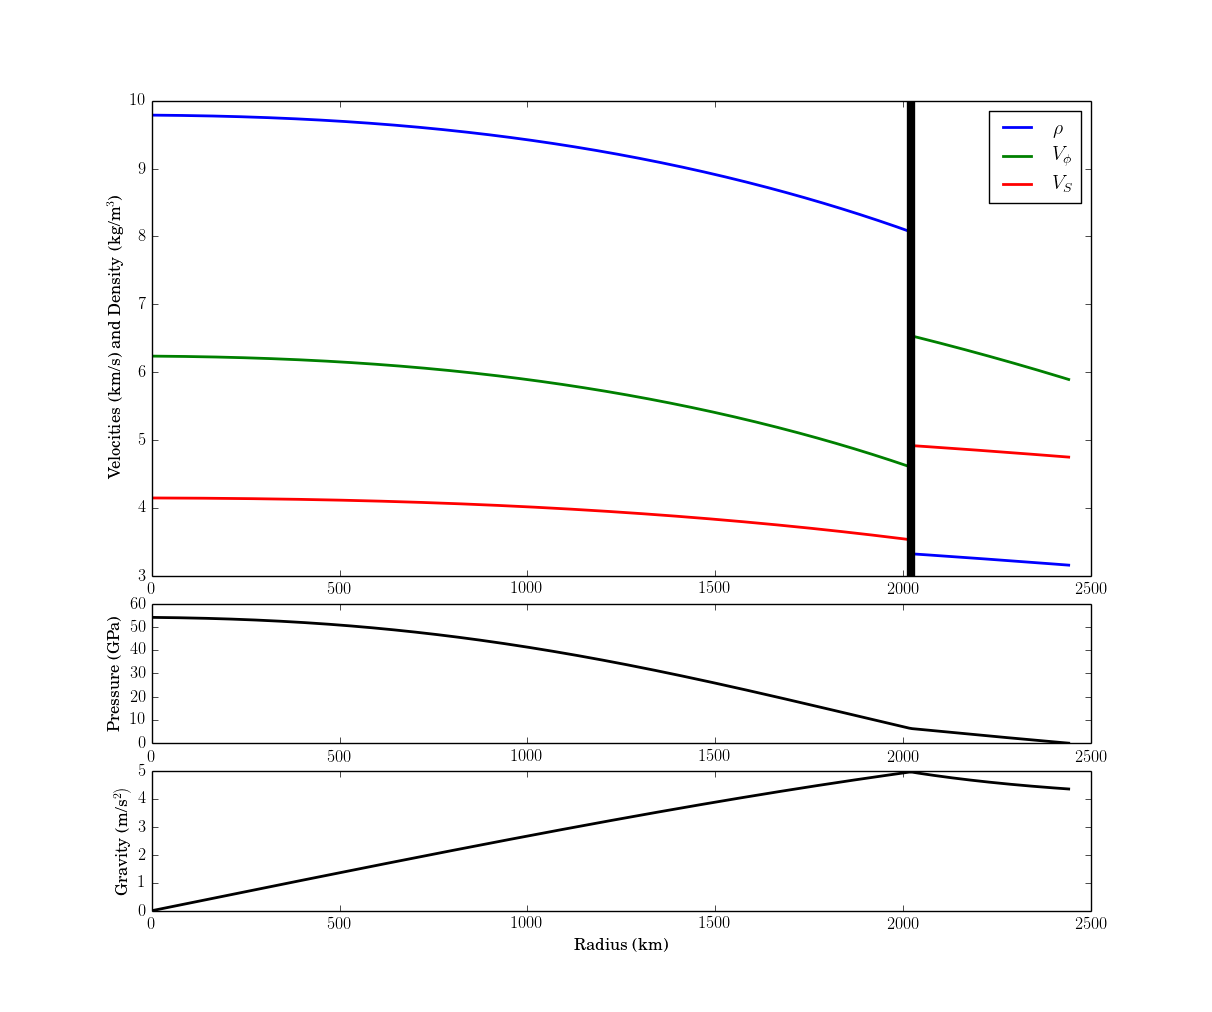
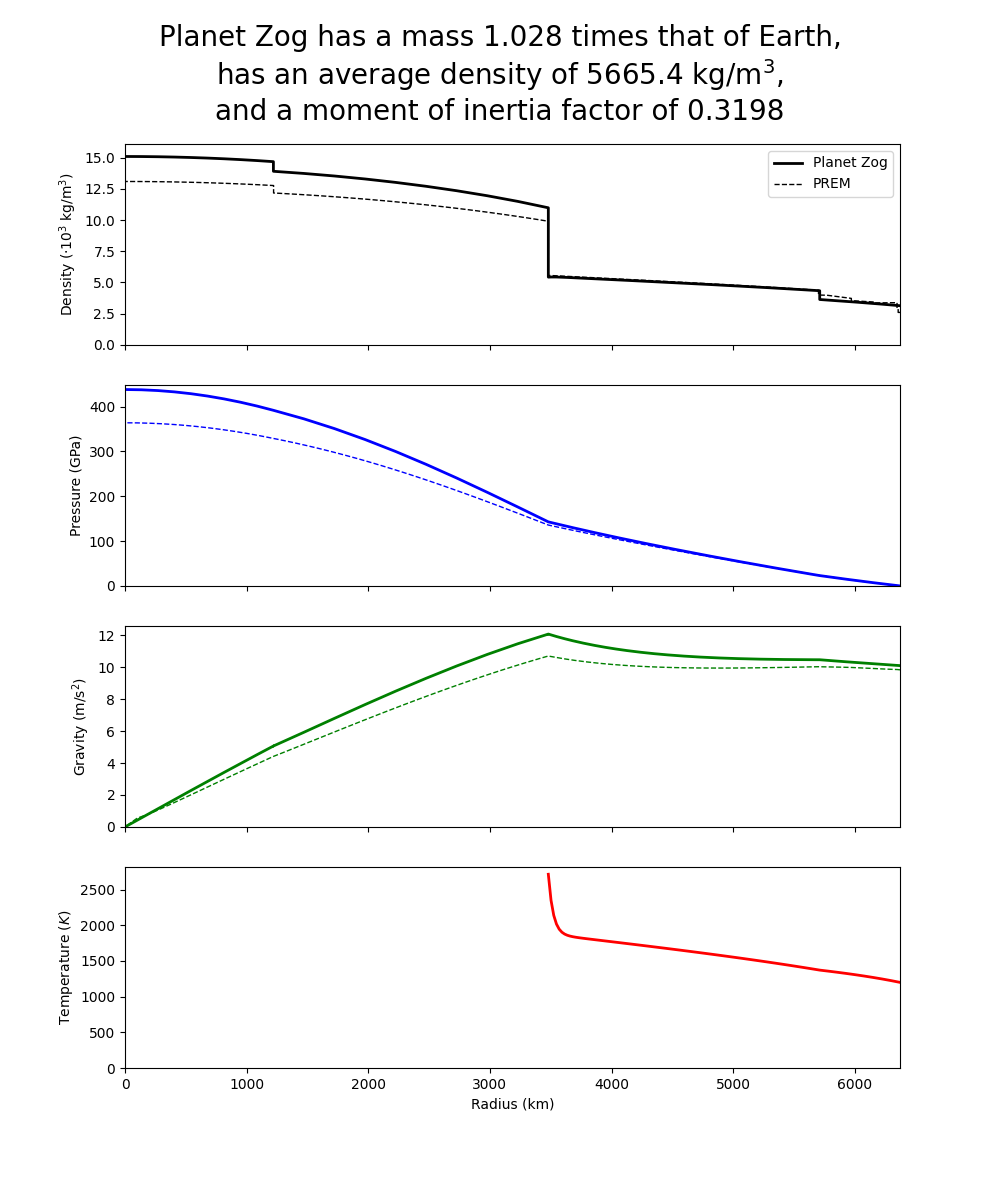
added boundary layer function

diff --git a/burnman/classes/layer.py b/burnman/classes/layer.py
@@ -8,6 +8,7 @@ import numpy as np
 from scipy.integrate import odeint
 from scipy.integrate import quad
 from scipy.interpolate import UnivariateSpline, interp1d
+from scipy.optimize import fsolve
 from burnman import constants
 from burnman.tools import geotherm
 import warnings
@@ -903,3 +904,109 @@ class Layer(object):
     def C_p(self):
         """Alias for :func:`~burnman.Material.molar_heat_capacity_p`"""
         return self.molar_heat_capacity_p
+
+
+class BoundaryLayerPerturbation(object):
+    """
+    A class that implements a temperature perturbation model corresponding to a
+    simple thermal boundary layer.
+    The model takes the following form:
+    T = a*exp((r - r1)/(r0 - r1)*c) + b*exp((r - r0)/(r1 - r0)*c)
+    The relationships between the input parameters and a, b and c are
+    given below.
+
+    This model is a simpler version of that proposed
+    by :cite:`Richter1981`.
+
+    Parameters
+    ----------
+    radius_bottom : float
+        The radius at the bottom of the layer (r0) [m].
+
+    radius_top : float
+        The radius at the top of the layer (r1) [m].
+
+    rayleigh_number : float
+        The Rayleigh number of convection within the layer. The
+        exponential scale factor is this number to the power of 1/4
+        (Ra = c^4).
+
+    Delta_T : float
+        The total difference in potential temperature across the layer [K].
+        Delta_T = (a + b)*exp(c)
+
+    boundary_layer_ratio : float
+        The ratio of the linear scale factors (a/b) corresponding to the
+        thermal boundary layers at the top and bottom of the layer. A number
+        greater than 1 implies a larger change in temperature across the
+        top boundary than the bottom boundary.
+    """
+    def __init__(self, radius_bottom, radius_top, rayleigh_number, Delta_T,
+                 boundary_layer_ratio):
+        self.r0 = radius_bottom
+        self.r1 = radius_top
+
+        self.Ra = rayleigh_number
+        self.c = np.power(self.Ra, 1./4.)
+
+        self.a = Delta_T / (np.exp(self.c) * (1. + boundary_layer_ratio))
+        self.b = - boundary_layer_ratio * self.a
+
+    def temperature(self, radii):
+        """
+        Returns the temperature at one or more radii [K].
+
+        Parameters
+        ----------
+        radii : float or array
+            The radii at which to evaluate the temperature.
+
+        Returns
+        -------
+        temperature : float or array
+            The temperatures at the requested radii.
+        """
+        return (self.a * np.exp((radii - self.r1)/(self.r0 - self.r1)*self.c)
+                + self.b * np.exp((radii - self.r0)/(self.r1 - self.r0)*self.c))
+
+    def dTdr(self, radii):
+        """
+        Returns the thermal gradient at one or more radii [K/m].
+
+        Parameters
+        ----------
+        radii : float or array
+            The radii at which to evaluate the thermal gradients.
+
+        Returns
+        -------
+        dTdr : float or array
+            The thermal gradient at the requested radii.
+        """
+        return (self.c/(self.r0 - self.r1) *
+                (self.a * np.exp((radii - self.r1)/(self.r0 - self.r1)*self.c)
+                 - self.b * np.exp((radii - self.r0)/(self.r1 - self.r0)*self.c)))
+
+    def set_model_thermal_gradients(self, dTdr_bottom, dTdr_top):
+        """
+        Reparameterizes the model based on the thermal gradients
+        at the bottom and top of the model.
+
+        Parameters
+        ----------
+        dTdr_bottom : float
+            The thermal gradient at the bottom of the model [K/m].
+            Typically negative for a cooling planet.
+
+        dTdr_top : float
+            The thermal gradient at the top of the model [K/m].
+            Typically negative for a cooling planet.
+        """
+        def delta_dTdrs(args, dTdr_bottom, dTdr_top):
+            a, b = args
+            self.a = a
+            self.b = b
+
+            return [dTdr_bottom - self.dTdr(self.r0),
+                    dTdr_top - self.dTdr(self.r1)]
+        fsolve(delta_dTdrs, [self.a, self.b], args=(dTdr_bottom, dTdr_top))

diff --git a/examples/example_build_planet.py b/examples/example_build_planet.py
@@ -67,18 +67,32 @@ if __name__ == '__main__':
 
     # The minerals that make up our core do not currently implement the thermal equation of state, so we will set the temperature at 300 K.
     inner_core.set_temperature_mode('user-defined',
-        300.*np.ones_like(inner_core.radii))
+                                    300.*np.ones_like(inner_core.radii))
 
     # outer_core
-    outer_core = burnman.Layer('outer core', radii = np.linspace(1220.e3,3480.e3,10))
+    outer_core = burnman.Layer('outer core', radii=np.linspace(1220.e3,3480.e3,10))
     outer_core.set_material(burnman.minerals.other.Liquid_Fe_Anderson())
     # The minerals that make up our core do not currently implement the thermal equation of state, so we will define the temperature at 300 K.
     outer_core.set_temperature_mode('user-defined', 300.*np.ones_like(outer_core.radii))
 
     # Next the Mantle.
-    lower_mantle = burnman.Layer('lower mantle', radii = np.linspace(3480.e3, 5711.e3, 10))
+    lower_mantle_radii = np.linspace(3480.e3, 5711.e3, 101)
+    lower_mantle = burnman.Layer('lower mantle', radii=lower_mantle_radii)
     lower_mantle.set_material(burnman.minerals.SLB_2011.mg_bridgmanite())
-    lower_mantle.set_temperature_mode('adiabatic')
+
+    # Here we add a thermal boundary layer perturbation, assuming that the
+    # lower mantle has a Rayleigh number of 1.e7, and that there
+    # is an 840 K jump across the basal thermal boundary layer and a
+    # 0 K jump at the top of the lower mantle.
+    tbl_perturbation = burnman.BoundaryLayerPerturbation(radius_bottom=3480.e3,
+                                                         radius_top=5711.e3,
+                                                         rayleigh_number=1.e7,
+                                                         Delta_T=840.,
+                                                         boundary_layer_ratio=0.)
+
+    lower_mantle_tbl = tbl_perturbation.temperature(lower_mantle_radii)
+    lower_mantle.set_temperature_mode('perturbed-adiabatic',
+                                      temperatures=lower_mantle_tbl)
     upper_mantle = burnman.Layer('upper mantle', radii = np.linspace(5711.e3, 6371e3, 10))
     upper_mantle.set_material(burnman.minerals.SLB_2011.forsterite())
     upper_mantle.set_temperature_mode('adiabatic', temperature_top = 1200.)
@@ -152,7 +166,9 @@ if __name__ == '__main__':
     ax[2].set_ylim(0., max(planet_zog.gravity) + 0.5)
 
     # Make a subplot showing the calculated temperature profile
-    ax[3].plot(planet_zog.radii / 1.e3, planet_zog.temperature, 'r', linewidth=2.)
+    mask = planet_zog.temperature > 301.
+    ax[3].plot(planet_zog.radii[mask] / 1.e3,
+               planet_zog.temperature[mask], 'r', linewidth=2.)
     ax[3].set_ylabel('Temperature ($K$)')
     ax[3].set_xlabel('Radius (km)')
     ax[3].set_ylim(0., max(planet_zog.temperature) + 100)

diff --git a/tests/test_layer.py b/tests/test_layer.py
@@ -5,7 +5,7 @@ from util import BurnManTest
 import numpy as np
 import burnman_path
 import burnman
-from burnman import Layer
+from burnman import Layer, BoundaryLayerPerturbation
 
 assert burnman_path  # silence pyflakes warning
 
@@ -84,6 +84,30 @@ class test_layer(BurnManTest):
         self.assertArraysAlmostEqual(d[0], d0)
         self.assertArraysAlmostEqual(d[1], d1)
 
+    def test_tbl(self):
+        p = BoundaryLayerPerturbation(radius_bottom=3480.e3,
+                                      radius_top=5711.e3,
+                                      rayleigh_number=1.e7,
+                                      Delta_T=840.,
+                                      boundary_layer_ratio=0.)
+
+        Ts = p.temperature(np.array([3480.e3, 5711.e3]))
+        self.assertArraysAlmostEqual(Ts, [840., 0.])
+
+
+        p = BoundaryLayerPerturbation(radius_bottom=3480.e3,
+                                      radius_top=5711.e3,
+                                      rayleigh_number=1.e7,
+                                      Delta_T=1000.,
+                                      boundary_layer_ratio=0.25)
+
+        Ts = p.temperature(np.array([3480.e3, 5711.e3]))
+        self.assertArraysAlmostEqual(Ts, [800., -200.])
+
+        p.set_model_thermal_gradients(-18./1.e3, -0.6/1.e3)
+
+        dTdrs = p.dTdr(np.array([3480.e3, 5711.e3]))
+        self.assertArraysAlmostEqual(dTdrs, [-18./1.e3, -0.6/1.e3])
 
 if __name__ == '__main__':
     unittest.main()

diff --git a/burnman/__init__.py b/burnman/__init__.py
@@ -199,7 +199,7 @@ from .classes.mineral_helpers import HelperRockSwitcher
 
 # Other classes
 from .classes.composition import Composition
-from .classes.layer import Layer
+from .classes.layer import Layer, BoundaryLayerPerturbation
 from .classes.planet import Planet
 from .classes.polytope import MaterialPolytope
 from .classes import seismic

diff --git a/docs/planets.rst b/docs/planets.rst
@@ -6,6 +6,8 @@ Layer
 
 .. autoclass:: burnman.Layer
 
+.. autoclass:: burnman.BoundaryLayerPerturbation
+
 
 Planet
 ------
